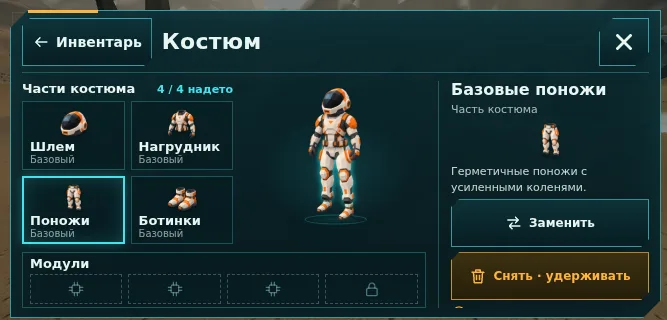
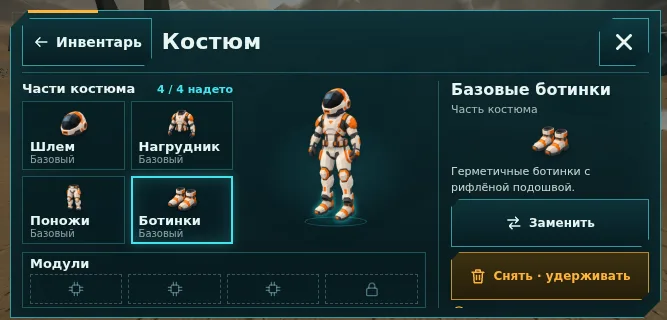
Fit boot shafts under trouser ankle cuffs without changing pants

diff --git a/src/style.css b/src/style.css
@@ -320,10 +320,10 @@ input[type=range]::-moz-range-track{height:3px;background:var(--line)}input[type
 .raster-figure .fig-boots img,.raster-figure .fig-boots.sel:not(.off) img{filter:none}
 /* Glow follows the separated silhouettes, rather than their clipping edges. */
 .raster-figure .fig-boots.sel:not(.off){filter:drop-shadow(0 0 3px rgba(26,241,248,.8))}
-.fig-boot{position:absolute;width:36%;height:20%}
-.fig-boot-left{left:28.5%;top:65.6333%;clip-path:inset(0 50% 0 0)}
-.fig-boot-right{left:34.8%;top:67.9333%;clip-path:inset(0 0 0 51%)}
-.figure-platform{position:absolute;left:16%;right:16%;bottom:12%;height:6%;border:1px solid rgba(58,229,240,.25);border-radius:50%;background:radial-gradient(ellipse,rgba(36,195,207,.13),transparent 70%);z-index:0}
+.fig-boot{position:absolute;width:48%;height:26.6667%}
+.fig-boot-left{left:24.4%;top:62%;clip-path:inset(0 50% 0 0)}
+.fig-boot-right{left:24.8%;top:62.7%;clip-path:inset(0 0 0 51%)}
+.figure-platform{position:absolute;left:16%;right:16%;bottom:11%;height:6%;border:1px solid rgba(58,229,240,.25);border-radius:50%;background:radial-gradient(ellipse,rgba(36,195,207,.13),transparent 70%);z-index:0}
 .fig-part path,.fig-part circle{fill:#e9e8e3;stroke:#3d4648;stroke-width:1.4}.fig-part .fig-accent{fill:#e8742a;stroke:#e8742a}.fig-part .fig-dark{fill:none;stroke:#2b3234;stroke-width:4}.fig-part .fig-visor{fill:#12181a;stroke:#e8742a}
 .fig-part.off path,.fig-part.off circle{fill:none;stroke:rgba(160,220,225,.45);stroke-dasharray:4 3}.fig-part.off .fig-accent,.fig-part.off .fig-visor{fill:none}
 .fig-part.sel path:first-child,.fig-part.sel circle{stroke:var(--aqua);stroke-width:2.2}

diff --git a/docs/art/ui/UI_SPRITES.md b/docs/art/ui/UI_SPRITES.md
@@ -12,7 +12,7 @@
 
 `ITEM_ART` в `src/ui/art.ts` статически импортирует локальные файлы; Vite формирует хешированные URL. Общие изображения используются в быстром доступе, рюкзаке, снаряжении, описании, переносе и списке замены. Внешнего CDN нет. Стабильные ID, сохранения, баланс и стартовый комплект не менялись.
 
-Фигура собирается из четырёх независимых растровых частей через `FIGURE_ART.parts`. Внутренний холст 5:9 сохраняет одинаковые пропорции в маленькой карточке и большом окне. Все четыре части находятся в квадратных контейнерах с `object-fit: contain`: соотношение сторон исходных спрайтов сохраняется. Поножи на фигуре и в слоте используют один и тот же файл; прежнее `object-fit: fill` ошибочно расширяло их на фигуре и удалено. Пояс согласован с нагрудником, обе щиколотки совмещены с ботинками. После замечания Малика 4.10 поножи перерисованы в спокойной стойке: колени и голени ближе друг к другу, ширина таза и длина ног сохранены. Каждый ботинок передвинут под новую щиколотку; стойка изменена в самом спрайте, без неравномерного масштабирования. Два ботинка из одного спрайта разделены CSS-масками и позиционируются независимо, но относятся к одному слоту экипировки. Выбранная часть подсвечивается; снятая становится слабым серым ориентиром. Контуры пустых слотов и функциональные пиктограммы остаются векторными.
+Фигура собирается из четырёх независимых растровых частей через `FIGURE_ART.parts`. Внутренний холст 5:9 сохраняет одинаковые пропорции в маленькой карточке и большом окне. Все четыре части находятся в квадратных контейнерах с `object-fit: contain`: соотношение сторон исходных спрайтов сохраняется. Поножи на фигуре и в слоте используют один и тот же файл; прежнее `object-fit: fill` ошибочно расширяло их на фигуре и удалено. Пояс согласован с нагрудником, обе щиколотки совмещены с ботинками. После замечания Малика 4.10 поножи перерисованы в спокойной стойке: колени и голени ближе друг к другу, ширина таза и длина ног сохранены. Каждый ботинок передвинут под новую щиколотку; стойка изменена в самом спрайте, без неравномерного масштабирования. После замечания о неестественном стыке обувь равномерно увеличена до ширины щиколоток и поднята: верхний манжет ботинка перекрывается краем поножей, открытая горловина скрыта. Поножи и их пропорции при этой подгонке не изменялись. Два ботинка из одного спрайта разделены CSS-масками и позиционируются независимо, но относятся к одному слоту экипировки. Выбранная часть подсвечивается; снятая становится слабым серым ориентиром. Контуры пустых слотов и функциональные пиктограммы остаются векторными.
 
 Это иллюстрации интерфейса. Процедурная 3D-модель инструмента в руке, геометрия мира и будущие модули костюма не изменялись.
 

diff --git a/NEXT_SESSION.md b/NEXT_SESSION.md
@@ -1,6 +1,6 @@
 # Vireon — инструкция для новой сессии с нейросетью
 
-**4.10.2026, актуальный стиль ассетов:** Малик утвердил вариант 1 «Мягкий low-poly». Все 11 предметов и отдельная пара ботинок фигуры заменены прозрачными WebP с крупными матовыми гранями. После замечания Малика о слишком широкой стойке поножи перерисованы с более близкими голенями при прежней ширине таза и длине ног; ботинки совмещены с ними. Для фигуры и слотов сохранять исходные пропорции спрайтов: `object-fit: contain`, без растяжения по отдельной оси. После замечания о разных поножах удалено ошибочное `object-fit: fill`; холст фигуры 5:9, положение пояса и обуви согласовано заново. Реестр, ID и сохранения прежние; модели мира и инструмента в руке не менялись. Prompts и контрольные суммы: `docs/art/ui/SPRITE_MANIFEST.json`. Автономный HTML не обновлять; использовать Vercel из PR #2.
+**4.10.2026, актуальный стиль ассетов:** Малик утвердил вариант 1 «Мягкий low-poly». Все 11 предметов и отдельная пара ботинок фигуры заменены прозрачными WebP с крупными матовыми гранями. После замечания Малика о слишком широкой стойке поножи перерисованы с более близкими голенями при прежней ширине таза и длине ног; ботинки совмещены с ними. Для фигуры и слотов сохранять исходные пропорции спрайтов: `object-fit: contain`, без растяжения по отдельной оси. После замечания о разных поножах удалено ошибочное `object-fit: fill`; холст фигуры 5:9, положение пояса и обуви согласовано заново. Стык обуви исправлен равномерным увеличением ботинок под ширину щиколоток и перекрытием их верхних манжет краем поножей; сами поножи не менялись. Реестр, ID и сохранения прежние; модели мира и инструмента в руке не менялись. Prompts и контрольные суммы: `docs/art/ui/SPRITE_MANIFEST.json`. Автономный HTML не обновлять; использовать Vercel из PR #2.
 
 > Этот файл — точка входа для любого ассистента, который продолжает работу над Vireon в новой, «чистой» сессии. Прочитай его целиком **до** первых действий. Он не заменяет GDD, а говорит, что читать, как работать и что делать дальше.
 >

diff --git a/docs/SESSION_CONTEXT.md b/docs/SESSION_CONTEXT.md
@@ -1,6 +1,6 @@
 # Vireon — актуальная память
 
-**4.10.2026, актуальный стиль ассетов:** Малик утвердил вариант 1 «Мягкий low-poly». Все 11 предметов и отдельная пара ботинок фигуры заменены прозрачными WebP с крупными матовыми гранями. После замечания Малика о слишком широкой стойке поножи перерисованы с более близкими голенями при прежней ширине таза и длине ног; ботинки совмещены с ними. Для фигуры и слотов сохранять исходные пропорции спрайтов: `object-fit: contain`, без растяжения по отдельной оси. После замечания о разных поножах удалено ошибочное `object-fit: fill`; холст фигуры 5:9, положение пояса и обуви согласовано заново. Реестр, ID и сохранения прежние; модели мира и инструмента в руке не менялись. Prompts и контрольные суммы: `docs/art/ui/SPRITE_MANIFEST.json`. Автономный HTML не обновлять; использовать Vercel из PR #2.
+**4.10.2026, актуальный стиль ассетов:** Малик утвердил вариант 1 «Мягкий low-poly». Все 11 предметов и отдельная пара ботинок фигуры заменены прозрачными WebP с крупными матовыми гранями. После замечания Малика о слишком широкой стойке поножи перерисованы с более близкими голенями при прежней ширине таза и длине ног; ботинки совмещены с ними. Для фигуры и слотов сохранять исходные пропорции спрайтов: `object-fit: contain`, без растяжения по отдельной оси. После замечания о разных поножах удалено ошибочное `object-fit: fill`; холст фигуры 5:9, положение пояса и обуви согласовано заново. Стык обуви исправлен равномерным увеличением ботинок под ширину щиколоток и перекрытием их верхних манжет краем поножей; сами поножи не менялись. Реестр, ID и сохранения прежние; модели мира и инструмента в руке не менялись. Prompts и контрольные суммы: `docs/art/ui/SPRITE_MANIFEST.json`. Автономный HTML не обновлять; использовать Vercel из PR #2.
 
 **29.09.2026, Europe/Moscow. GDD 1.0.0, баланс B0.** Репозиторий https://github.com/Malikk-Sh/Verion-game. Рабочее название Vireon; имя репозитория Verion-game не исправлять автоматически.
 

diff --git a/AGENTS.md b/AGENTS.md
@@ -1,6 +1,6 @@
 # Работа с Vireon
 
-**4.10.2026, актуальный стиль ассетов:** Малик утвердил вариант 1 «Мягкий low-poly». Все 11 предметов и отдельная пара ботинок фигуры заменены прозрачными WebP с крупными матовыми гранями. После замечания Малика о слишком широкой стойке поножи перерисованы с более близкими голенями при прежней ширине таза и длине ног; ботинки совмещены с ними. Для фигуры и слотов сохранять исходные пропорции спрайтов: `object-fit: contain`, без растяжения по отдельной оси. После замечания о разных поножах удалено ошибочное `object-fit: fill`; холст фигуры 5:9, положение пояса и обуви согласовано заново. Реестр, ID и сохранения прежние; модели мира и инструмента в руке не менялись. Prompts и контрольные суммы: `docs/art/ui/SPRITE_MANIFEST.json`. Автономный HTML не обновлять; использовать Vercel из PR #2.
+**4.10.2026, актуальный стиль ассетов:** Малик утвердил вариант 1 «Мягкий low-poly». Все 11 предметов и отдельная пара ботинок фигуры заменены прозрачными WebP с крупными матовыми гранями. После замечания Малика о слишком широкой стойке поножи перерисованы с более близкими голенями при прежней ширине таза и длине ног; ботинки совмещены с ними. Для фигуры и слотов сохранять исходные пропорции спрайтов: `object-fit: contain`, без растяжения по отдельной оси. После замечания о разных поножах удалено ошибочное `object-fit: fill`; холст фигуры 5:9, положение пояса и обуви согласовано заново. Стык обуви исправлен равномерным увеличением ботинок под ширину щиколоток и перекрытием их верхних манжет краем поножей; сами поножи не менялись. Реестр, ID и сохранения прежние; модели мира и инструмента в руке не менялись. Prompts и контрольные суммы: `docs/art/ui/SPRITE_MANIFEST.json`. Автономный HTML не обновлять; использовать Vercel из PR #2.
 
 Общение с Маликом на русском. Репозиторий содержит проектную память, полный GDD и визуальный образец Верданы B4; полной survival-игры пока нет.
 
